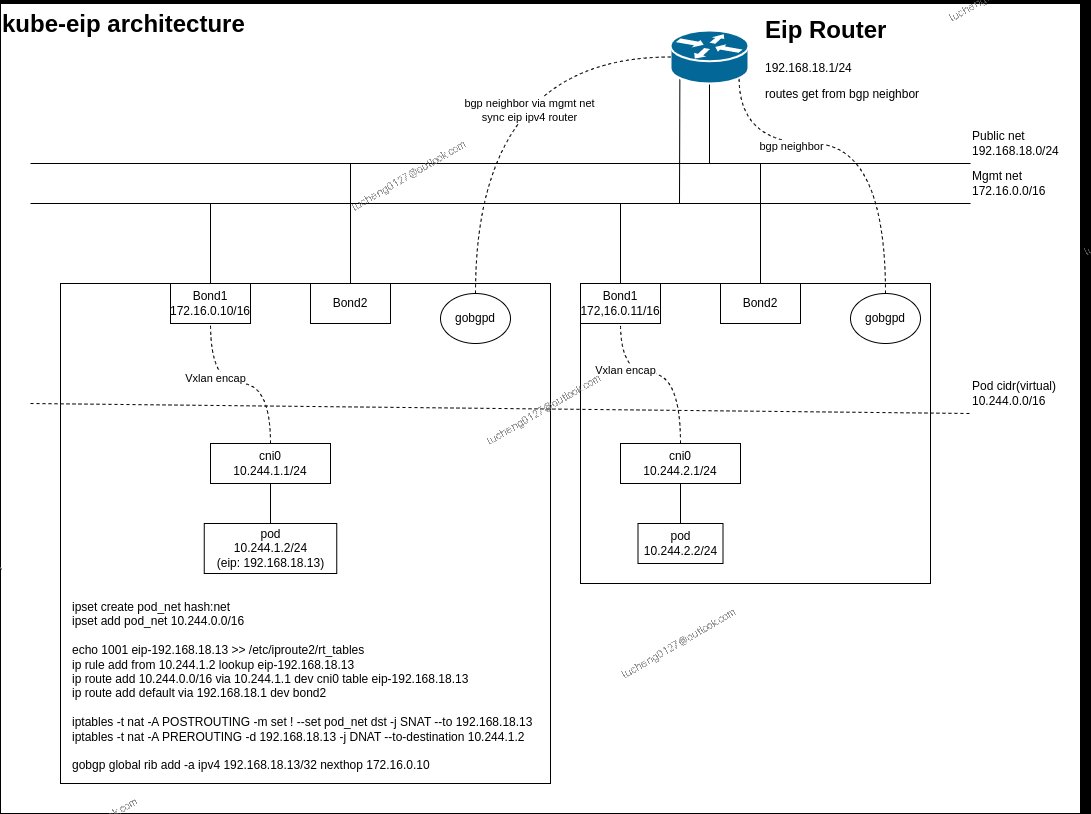
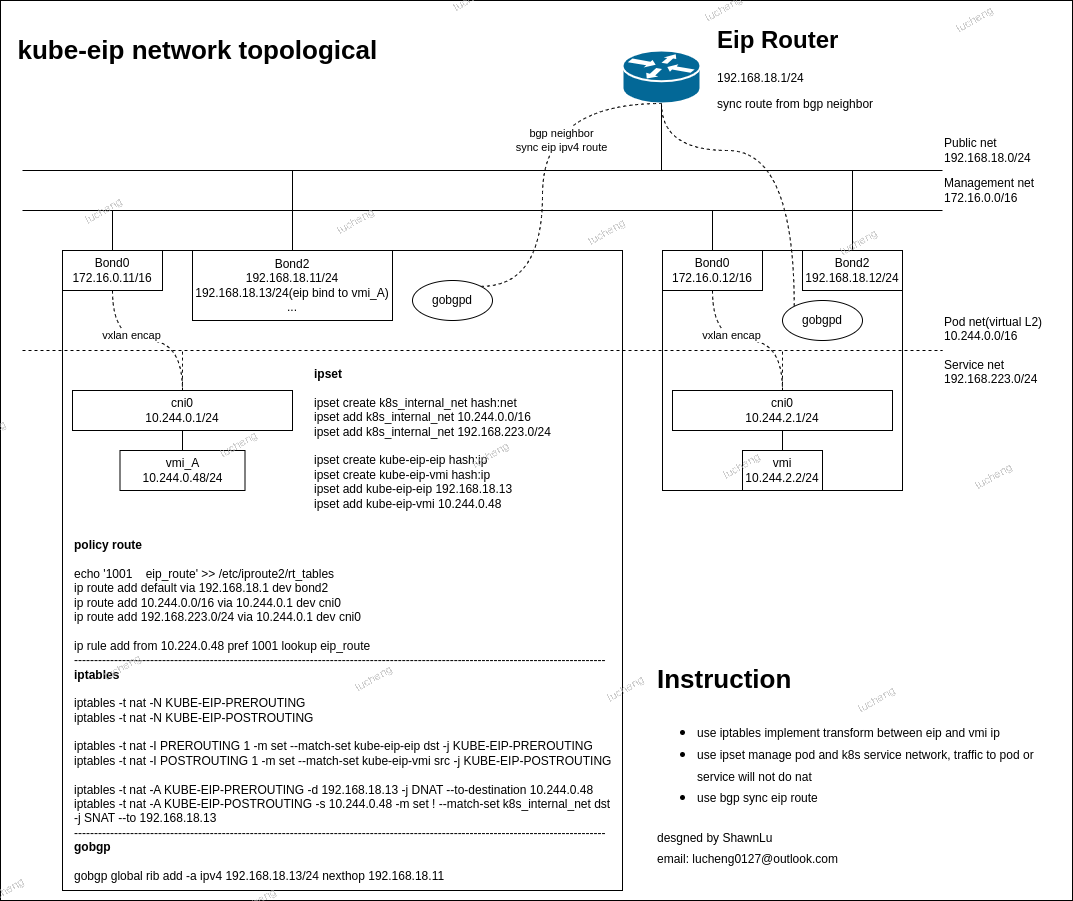
Remade the network topo

diff --git a/README.md b/README.md
@@ -12,26 +12,6 @@ At it's core, kube-eip use the rules of iptables implement the transform between
 
 Then for eip routes, we use bgp to declare that the nexthop to access vmi pod that binded eip. There ware a series bgp server we can choise, but we can use gobgp as the bgp library native.
 
-```
-ipset create k8s_internal_net hash:net
-ipset add k8s_internal_net 10.244.0.0/16
-ipset add k8s_internal_net 192.168.223.0/24
-
-ipset create kube-eip-eip hash:ip
-ipset create kube-eip-vmi hash:ip
-ipset add kube-eip-eip 192.168.18.13
-ipset add kube-eip-vmi 10.244.0.48
-
-iptables -t nat -N KUBE-EIP-PREROUTING
-iptables -t nat -N KUBE-EIP-POSTROUTING
-
-iptables -t nat -I PREROUTING 1 -m set --match-set kube-eip-eip dst -j KUBE-EIP-PREROUTING
-iptables -t nat -I POSTROUTING 1 -m set --match-set kube-eip-vmi src -j KUBE-EIP-POSTROUTING
-
-iptables -t nat -A KUBE-EIP-PREROUTING -d 192.168.18.13 -j DNAT --to-destination 10.244.0.48
-iptables -t nat -A KUBE-EIP-POSTROUTING -s 10.244.0.48 -m set ! --match-set k8s_internal_net dst -j SNAT --to 192.168.18.13
-```
-
 ## Lifecycle of eip
 
 Kube-eip extends kubeernets by adding a eipBinding CRD. An eipBinding represent a eip binded to a vmi pod. And an eip can be create and bind or destoryed along with the eipBinding. Also operator will watch EipBinding and kubevirt VirtualMachineInstance, and handle create update and delete event.
